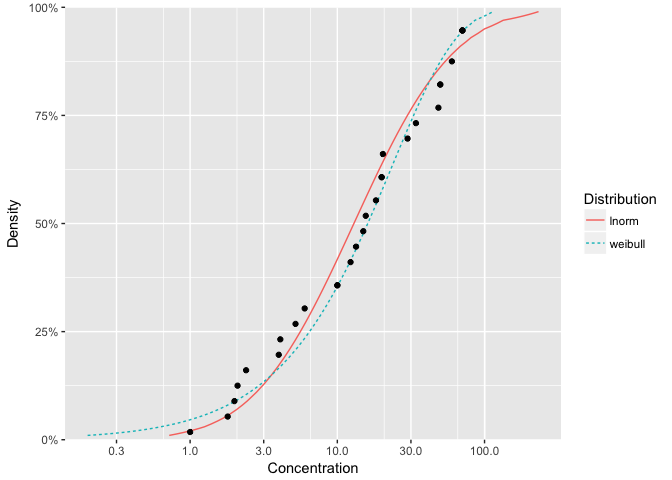
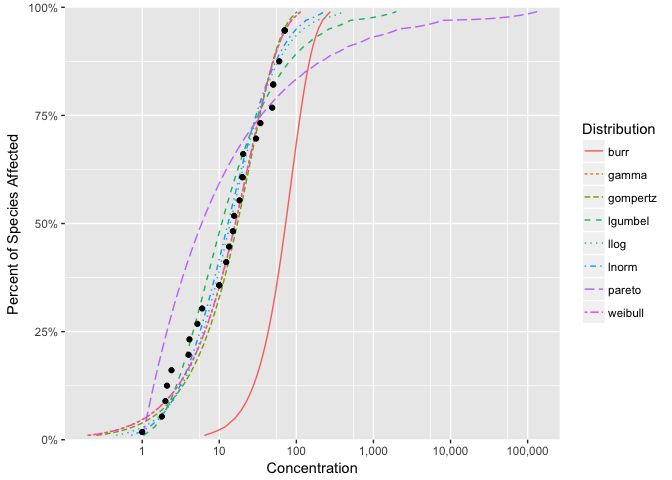
update readme

diff --git a/README.md b/README.md
@@ -68,46 +68,34 @@ library(ssdca)
 `ssdca` provides a data set for several chemicals including Boron.
 
 ``` r
-boron_data <- ccme_data[ccme_data$Chemical == "Boron",]
 boron_data
-#> # A tibble: 28 x 4
-#>    Chemical                 Species  Conc  Group
-#>       <chr>                   <chr> <dbl> <fctr>
-#>  1    Boron     Oncorhynchus mykiss   2.1   Fish
-#>  2    Boron     Ictalurus punctatus   2.4   Fish
-#>  3    Boron   Micropterus salmoides   4.1   Fish
-#>  4    Boron       Brachydanio rerio  10.0   Fish
-#>  5    Boron       Carassius auratus  15.6   Fish
-#>  6    Boron     Pimephales promelas  18.3   Fish
-#>  7    Boron           Daphnia magna   6.0 Invert
-#>  8    Boron Opercularia bimarginata  10.0   Fish
-#>  9    Boron      Ceriodaphnia dubia  13.4   Fish
-#> 10    Boron     Entosiphon sulcatum  15.0   Fish
+#> # A tibble: 28 x 5
+#>    Chemical                 Species Concentration        Group Units
+#>       <chr>                   <chr>         <dbl>       <fctr> <chr>
+#>  1    Boron     Oncorhynchus mykiss           2.1         Fish  mg/L
+#>  2    Boron     Ictalurus punctatus           2.4         Fish  mg/L
+#>  3    Boron   Micropterus salmoides           4.1         Fish  mg/L
+#>  4    Boron       Brachydanio rerio          10.0         Fish  mg/L
+#>  5    Boron       Carassius auratus          15.6         Fish  mg/L
+#>  6    Boron     Pimephales promelas          18.3         Fish  mg/L
+#>  7    Boron           Daphnia magna           6.0 Invertebrate  mg/L
+#>  8    Boron Opercularia bimarginata          10.0 Invertebrate  mg/L
+#>  9    Boron      Ceriodaphnia dubia          13.4 Invertebrate  mg/L
+#> 10    Boron     Entosiphon sulcatum          15.0 Invertebrate  mg/L
 #> # ... with 18 more rows
 ```
 
 Multiple distributions can be fit using `ssd_fit_dists()`
 
 ``` r
-boron_dists <- ssd_fit_dists(boron_data$Conc, c("lnorm", "weibull"))
-boron_dists
-#> Fitting of the distribution ' lnorm ' by maximum likelihood 
-#> Parameters:
-#>         estimate Std. Error
-#> meanlog 2.561645  0.2346291
-#> sdlog   1.241540  0.1659073
-#> Fitting of the distribution ' weibull ' by maximum likelihood 
-#> Parameters:
-#>         estimate Std. Error
-#> shape  0.9662825  0.1454446
-#> scale 23.5097478  4.8528313
+boron_all <- ssd_fit_dists(boron_data$Concentration)
 ```
 
 and plot using the `ggplot2` generic `autoplot`
 
 ``` r
 library(ggplot2)
-autoplot(boron_dists)
+autoplot(boron_all)
 ```
 
 ![](tools/README-unnamed-chunk-6-1.png)<!-- -->
@@ -116,30 +104,21 @@ Model-averaged predictions complete with confidence intervals can be
 produced using the `stats` generic.
 
 ``` r
-boron_avg <- predict(boron_dists)
-boron_avg
-#> # A tibble: 50 x 5
-#>     prob       est        se       lcl      ucl
-#>    <dbl>     <dbl>     <dbl>     <dbl>    <dbl>
-#>  1  0.01 0.3734021 0.3977970 0.1427631 1.321186
-#>  2  0.03 0.8392824 0.6285377 0.3430869 2.490880
-#>  3  0.05 1.2837853 0.7978725 0.5583141 3.438344
-#>  4  0.07 1.7279895 0.9455089 0.7902167 4.335468
-#>  5  0.09 2.1777331 1.0823271 1.0434125 5.189170
-#>  6  0.11 2.6358033 1.2131135 1.3071202 5.982179
-#>  7  0.13 3.1039463 1.3404504 1.5784002 6.758275
-#>  8  0.15 3.5834693 1.4659109 1.8599687 7.516955
-#>  9  0.17 4.0754784 1.5905381 2.1456779 8.266046
-#> 10  0.19 4.5809907 1.7150712 2.4934185 8.983524
-#> # ... with 40 more rows
+boron_pred <- predict(boron_all)
 ```
 
 and plotted together with the original data using `ssd_plot` to produce
 a publication quality plot.
 
-How to use `ssdca` in conjuction with `fitdistrplus` and `ggplot2` to
-assess alternative fits and produce custom plots is described in the
-ssdca vignette.
+``` r
+ssd_plot(boron_data, boron_pred)
+```
+
+![](tools/README-unnamed-chunk-8-1.png)<!-- -->
+
+For more information and examples of how to use `ssdca` in conjuction
+with `fitdistrplus` and `ggplot2` to assess alternative fits and produce
+custom plots is described in the vignette ssdca.
 
 A shiny webpage is being developed for non-users of R.
 
